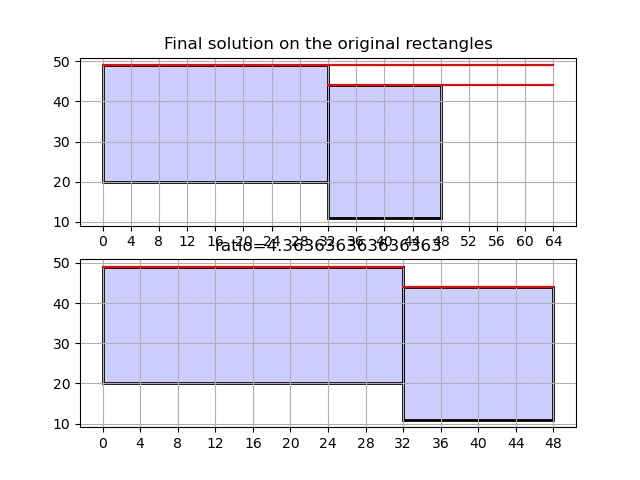
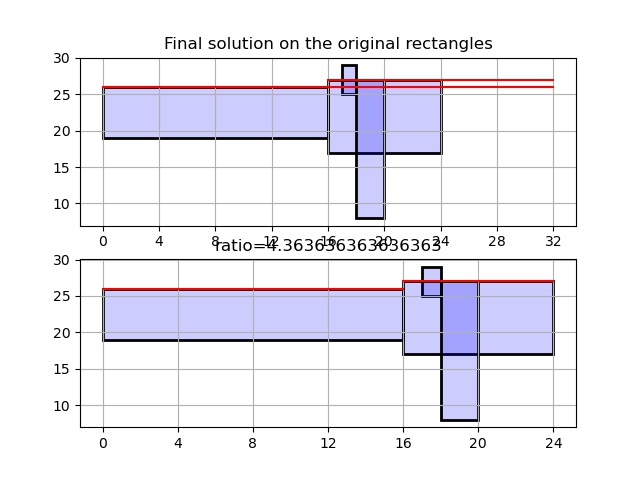
more test

diff --git a/test_approximation.py b/test_approximation.py
@@ -11,9 +11,9 @@ ratio=0
 iter=0
 while ratio<8 and iter<10000:
     #creation example
-    n=rd.randrange(2,20) #max number of Rectangle in E -1
-    maxx=70 #maximum value for x-1 and y-1
-    maxy=70
+    n=rd.randrange(2,10) #max number of Rectangle in E -1
+    maxx=30 #maximum value for x-1 and y-1
+    maxy=30
     List_Rect=[]
     for i in range(0,n-1):
         xb=rd.randrange(0,maxx-1)
@@ -71,14 +71,14 @@ while ratio<8 and iter<10000:
     iter+=1
 
     #write on file
-    fr=open("ratio.txt","a")
+    fr=open("ratio_allsmall.txt","a")
     if ratio>=3:
         fr.write("\n")
     fr.write(str(ratio)+" ")
     fr.close
 
-    if ratio>=3.8 or ratio<=1.65:
-        f=open("Rectangle_and_ratio.txt","a")
+    if ratio>=3.7:
+        f=open("Rectangle_and_ratiov3.txt","a")
         f.write("ratio="+str(ratio)+" Rectangles:")
         for R in E.Rects:
             f.write("[("+str(R.xb)+","+str(R.yb)+") , ("+str(R.xh)+","+str(R.yh)+")]")
